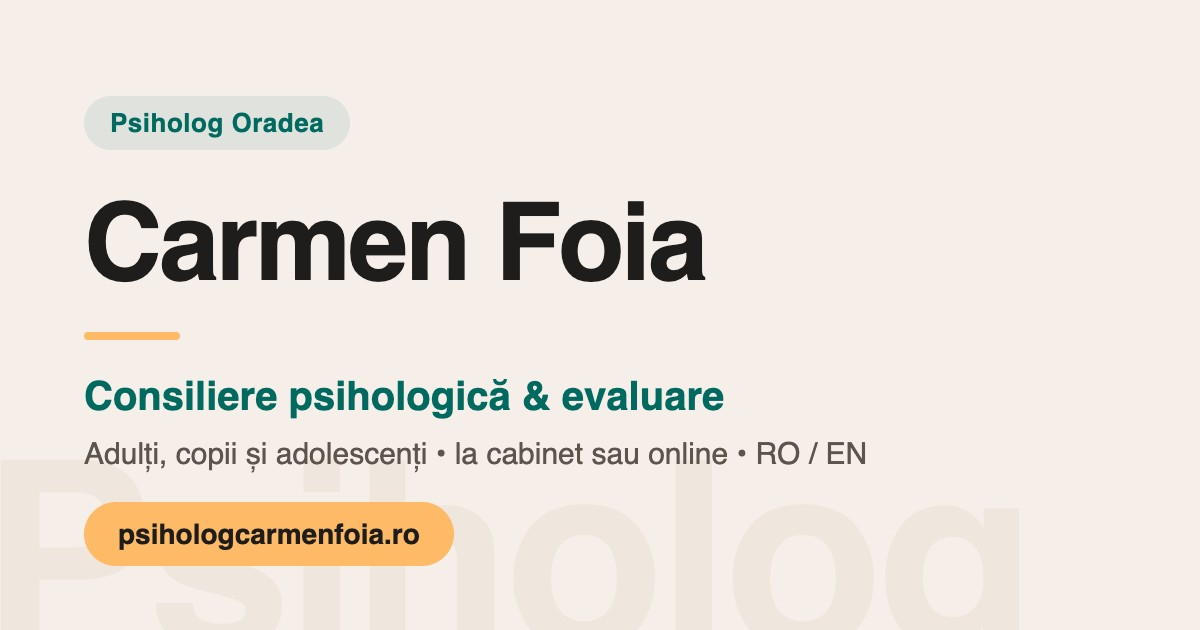
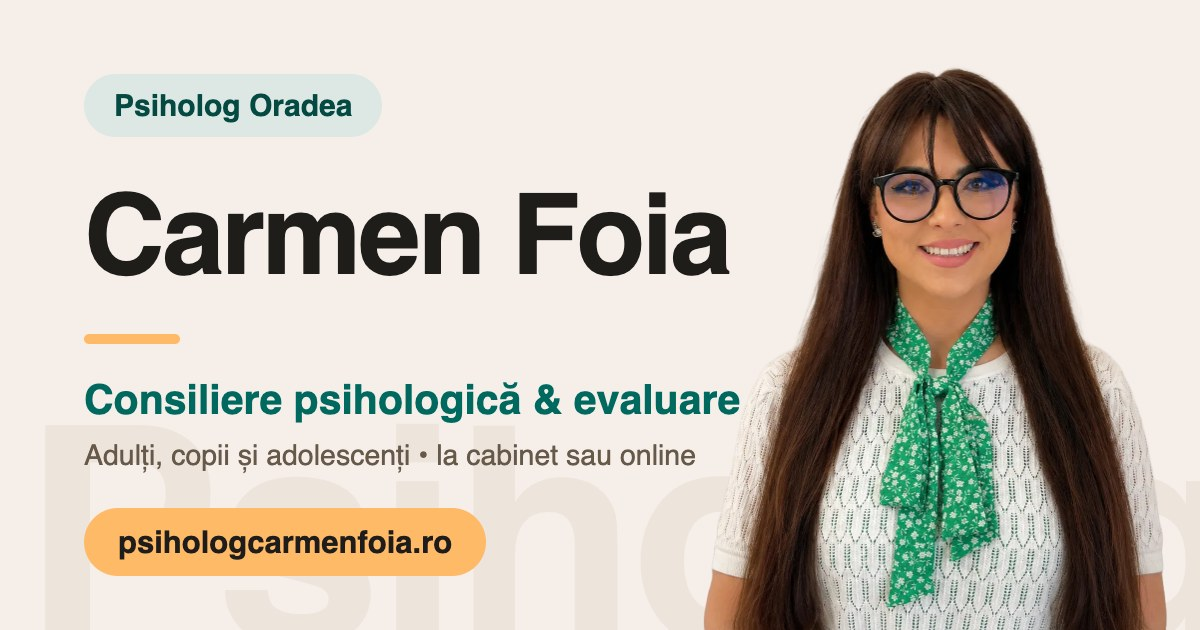
Social: og-image brand card redesigned with Carmen's portrait; articles and news share with their own cover (per-page og:image/twitter:image)

diff --git a/src/app/lib/seo.ts b/src/app/lib/seo.ts
@@ -35,6 +35,9 @@ type SeoInput = {
   /** Optional per-page JSON-LD (Article, FAQPage, BreadcrumbList, …). Injected
    *  into <head> and captured by the prerenderer for rich results / AI search. */
   jsonLd?: object | object[] | null;
+  /** Absolute URL of the share image (og:image / twitter:image) — e.g. an
+   *  article's cover. Falls back to the site's brand card when omitted. */
+  image?: string | null;
 };
 
 /** Sets/removes the per-page JSON-LD <script> (id'd so it's replaced, not piled up). */
@@ -57,7 +60,7 @@ function setJsonLd(data: object | object[] | null | undefined) {
 export { SITE_URL };
 
 /** Sets document title + meta description/OG/canonical (+ optional JSON-LD) per page, per language. */
-export function useSeo({ title, description, path = "", noSuffix = false, jsonLd = null }: SeoInput) {
+export function useSeo({ title, description, path = "", noSuffix = false, jsonLd = null, image = null }: SeoInput) {
   const { language } = useLanguage();
   useEffect(() => {
     const t = noSuffix ? title[language] : `${title[language]} | ${SUFFIX}`;
@@ -71,10 +74,12 @@ export function useSeo({ title, description, path = "", noSuffix = false, jsonLd
     setMeta("property", "og:description", d);
     setMeta("property", "og:url", url);
     setMeta("property", "og:locale", language === "ro" ? "ro_RO" : "en_US");
+    setMeta("property", "og:image", image || `${SITE_URL}/og-image.jpg`);
     setMeta("name", "twitter:title", t);
     setMeta("name", "twitter:description", d);
+    setMeta("name", "twitter:image", image || `${SITE_URL}/og-image.jpg`);
     setCanonical(url);
     setJsonLd(jsonLd);
     return () => setJsonLd(null);
-  }, [language, title, description, path, noSuffix, jsonLd]);
+  }, [language, title, description, path, noSuffix, jsonLd, image]);
 }

diff --git a/src/app/components/blog/BlogArticle.tsx b/src/app/components/blog/BlogArticle.tsx
@@ -71,6 +71,7 @@ export function BlogArticle() {
       : { ro: "Articol de blog — Carmen Foia, psiholog Oradea.", en: "Blog article — Carmen Foia, psychologist in Oradea." },
     path: slug ? `/blog/${slug}` : "/blog",
     jsonLd,
+    image: article?.cover_url ?? null,
   });
 
   useEffect(() => {

diff --git a/src/app/components/news/NewsDetail.tsx b/src/app/components/news/NewsDetail.tsx
@@ -58,6 +58,7 @@ export function NewsDetail() {
       : { ro: "Noutăți — Carmen Foia, psiholog Oradea.", en: "News — Carmen Foia, psychologist in Oradea." },
     path: slug ? `/noutati/${slug}` : "/noutati",
     jsonLd,
+    image: item?.cover_url ?? null,
   });
 
   useEffect(() => {
